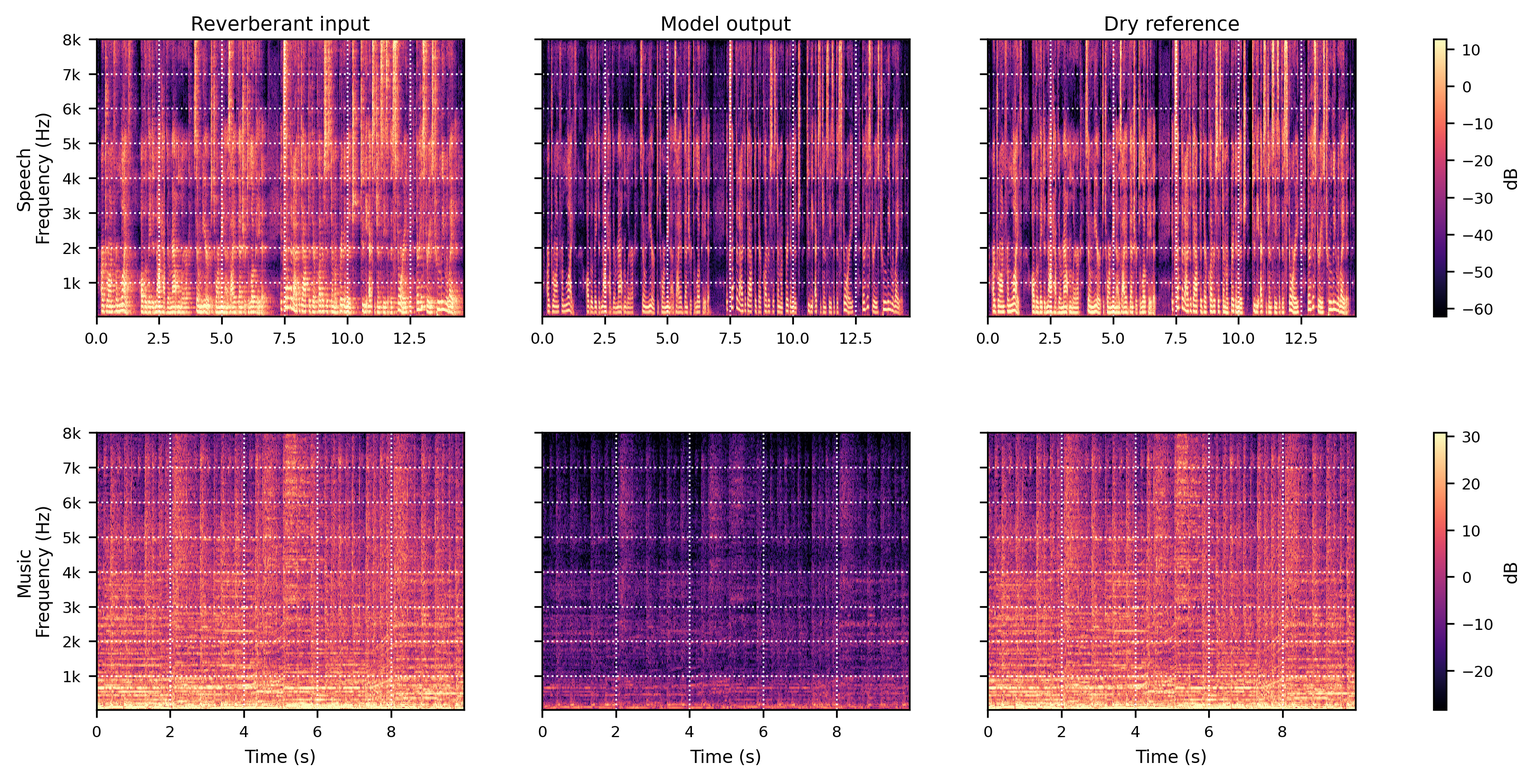
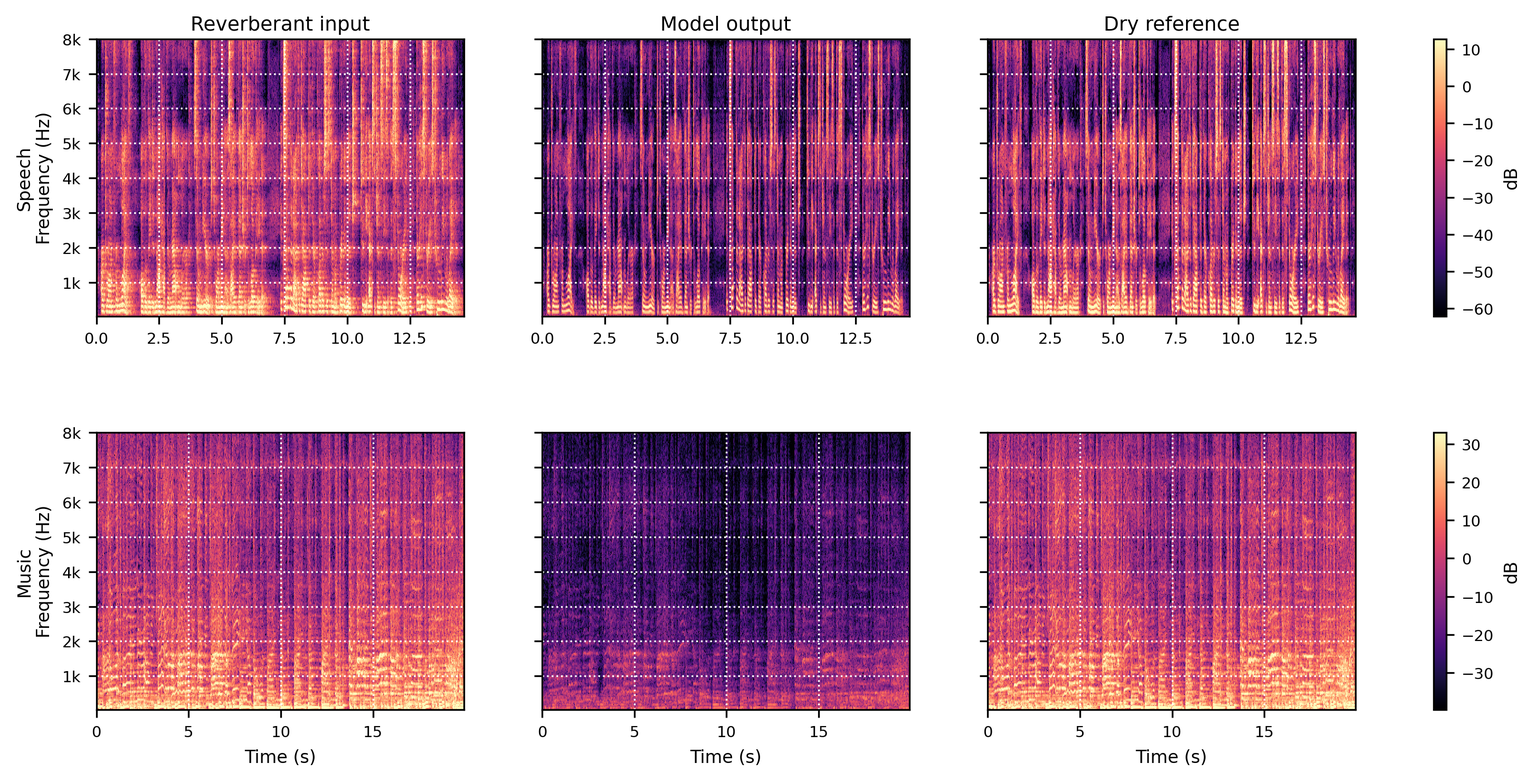
update storm spectogram

Changed region(s): [[0.3402, 0.528, 0.8969, 0.9318], [0.0619, 0.528, 0.3093, 0.9318], [0.9588, 0.8386, 0.9897, 0.8697]]

diff --git a/utils/plots/spectogram2.py b/utils/plots/spectogram2.py
@@ -26,11 +26,11 @@ SPEECH_STEM = SPEECH_OUT_NAME.split("_")[0]  # "4481-17498-0004"
 
 METADATA = ROOT / "experiments" / "perceptual-quality" / "data" / "metadata.jsonl"
 
-MUSIC_ID = "-0a4gn2ob_E ('Guitar', 'Music', 'Musical instrument').wav"
+MUSIC_ID = "-0dr4eWtWtQ ('Jingle bell',).wav"
 MUSIC_DRY = ROOT / "analysis" / "refs"       / MUSIC_ID
-MUSIC_OUT_ID = "-0a4gn2ob_E ('Guitar', 'Music', 'Musical instrument')_with_air_stairway_0_1_2_90_mls.wav"
+MUSIC_OUT_ID = "-0dr4eWtWtQ ('Jingle bell',)_with_Hybrid_Chambers_and_Large_Rooms_Gregorian Monks Choir Room L.wav"
 MUSIC_OUT = ROOT / "analysis" / "tests_storm" / MUSIC_OUT_ID
-MUSIC_WET = ROOT / "experiments" / "perceptual-quality" / "data" / "audio" / "33" / MUSIC_ID
+MUSIC_WET = ROOT / "experiments" / "perceptual-quality" / "data" / "audio" / "01" / MUSIC_ID
 
 OUT_PATH = ROOT / "thesis" / "figures" / "spectrogram_comparison_storm.png"
 
